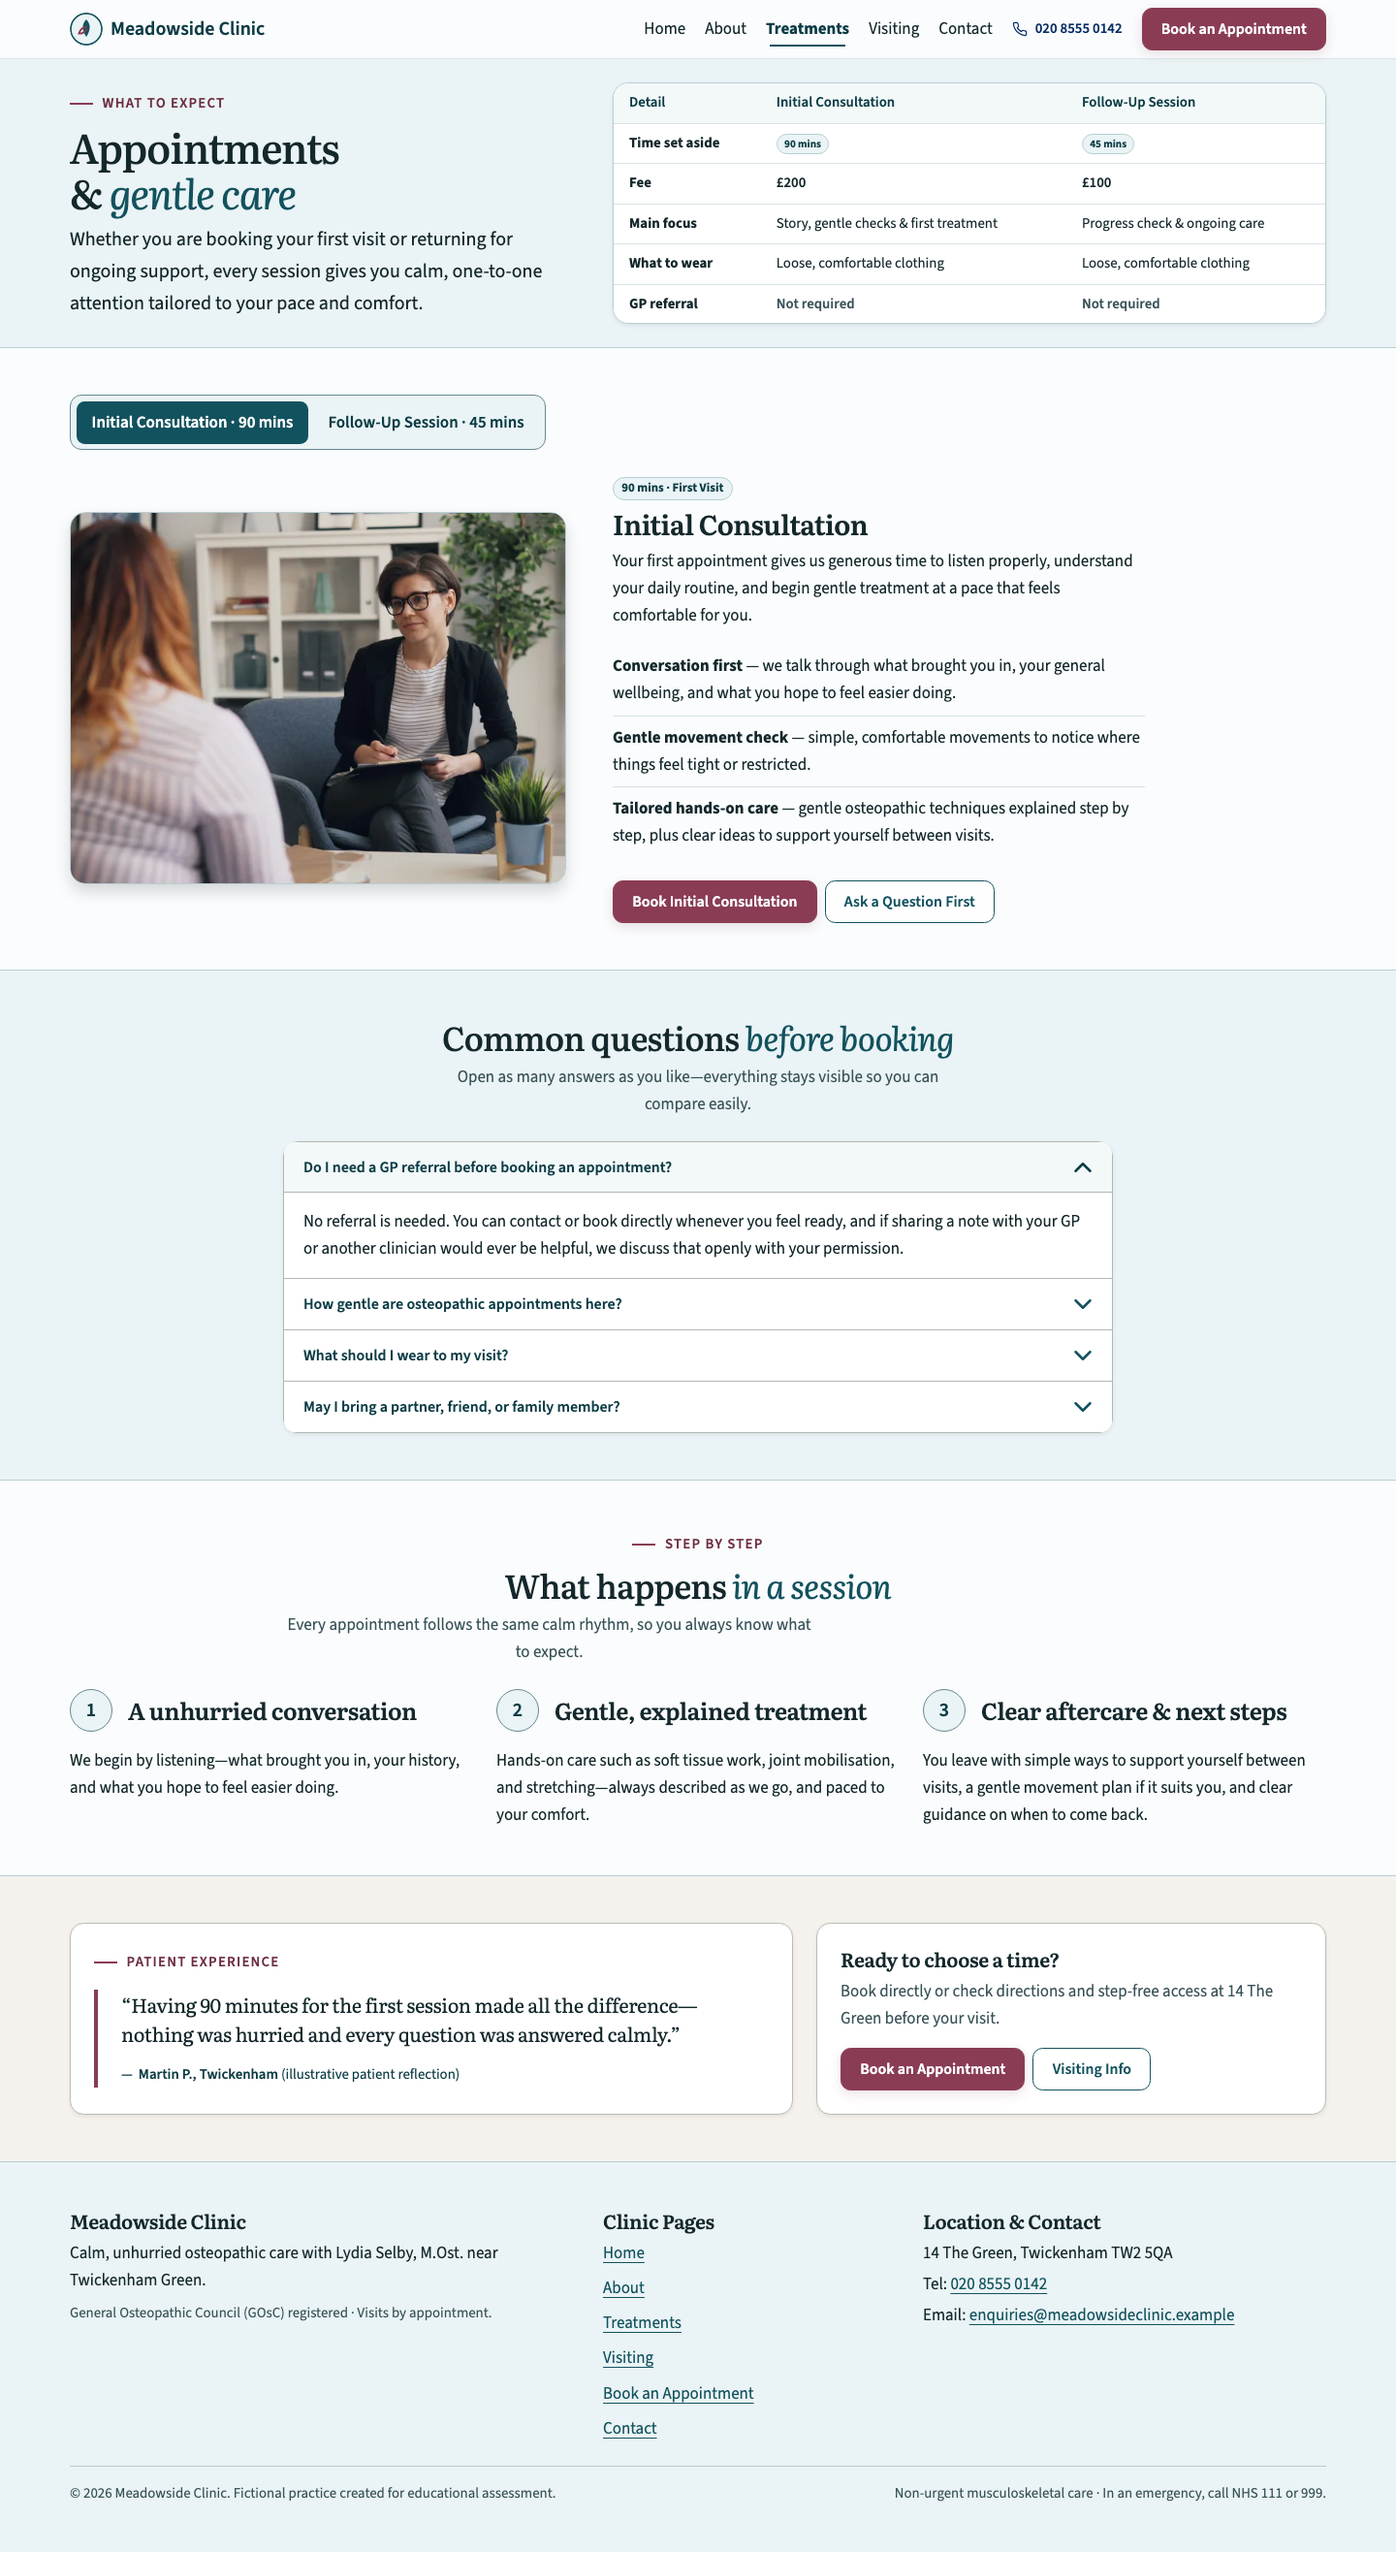
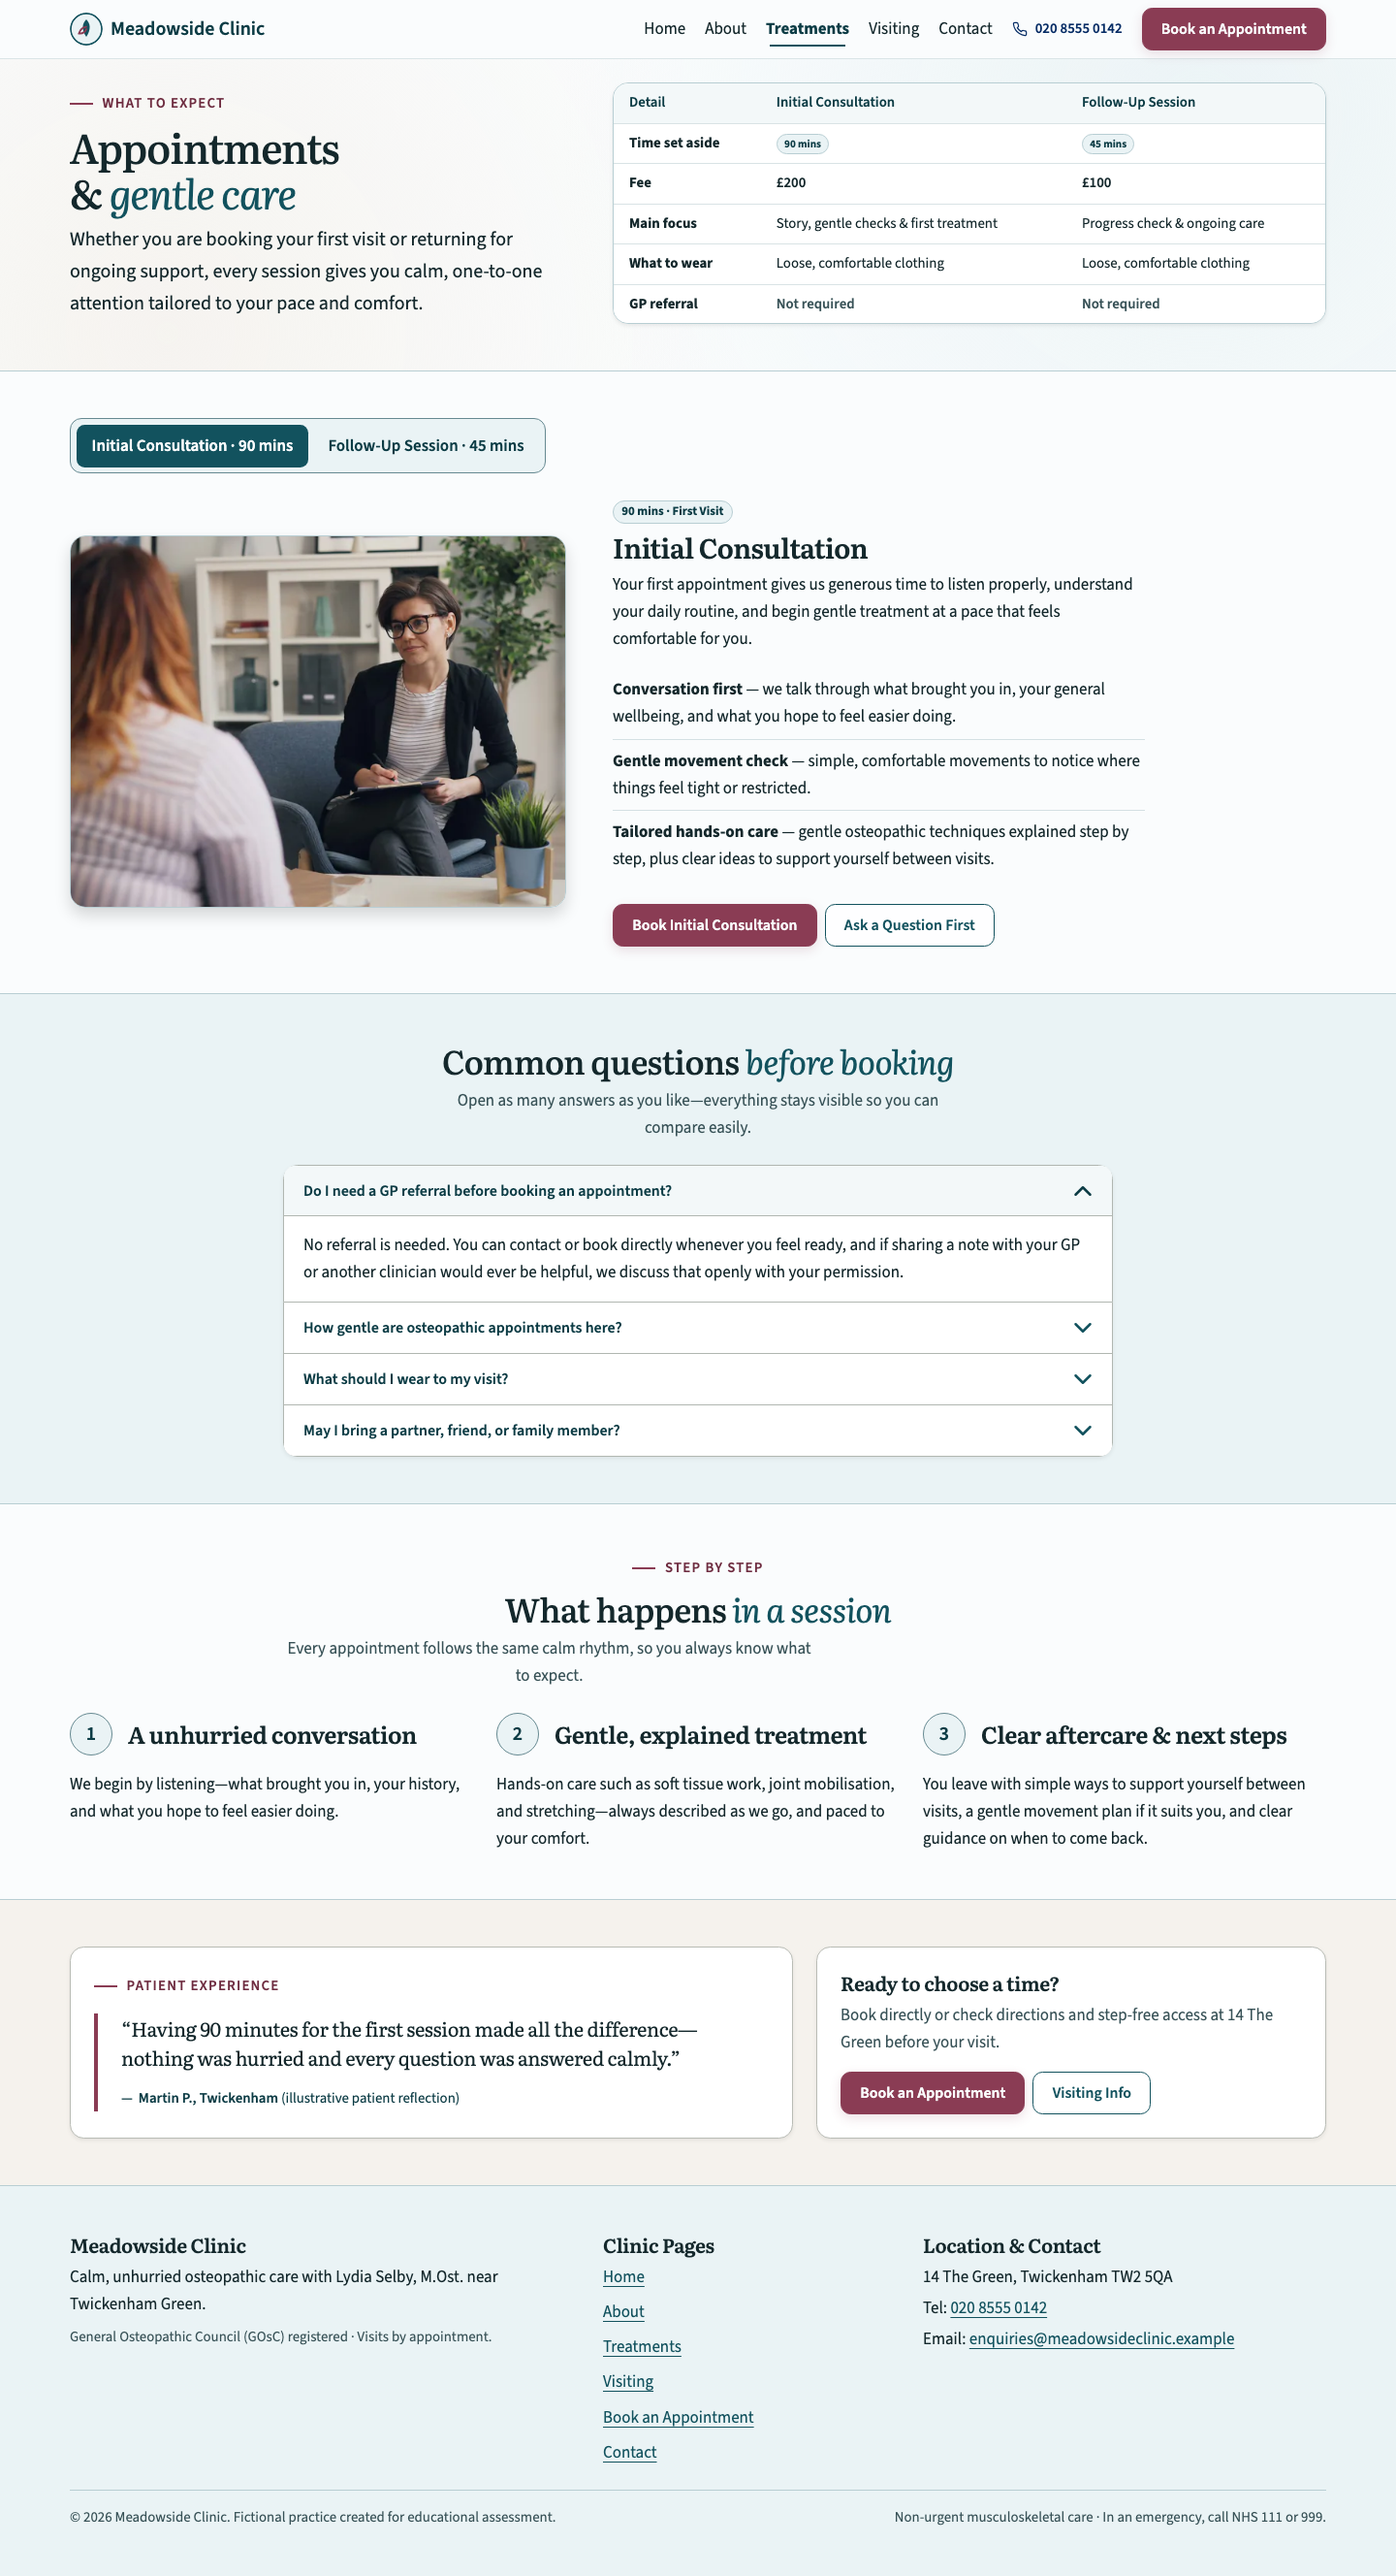
Detail audit: unify treatments opener, trim dead CSS, correct sizes stops

diff --git a/index.html b/index.html
@@ -152,7 +152,7 @@
             <div class="ratio ratio-4x3">
               <img src="assets/images/hero-treatment-room-1200.webp"
                 srcset="assets/images/hero-treatment-room-640.webp 640w, assets/images/hero-treatment-room-800.webp 800w, assets/images/hero-treatment-room-1200.webp 1200w"
-                sizes="(max-width: 575.98px) calc(100vw - 1.5rem), (max-width: 991.98px) 696px, 526px"
+                sizes="(max-width: 575.98px) calc(100vw - 1.5rem), (max-width: 991.98px) 696px, 441px"
                 alt="Private clinic treatment room with a pale padded plinth, stool, orchid on a small desk, and white painted brick wall"
                 class="img-fluid object-fit-cover rounded-4 shadow border" width="1200" height="900"
                 fetchpriority="high">
@@ -170,7 +170,7 @@
             <div class="ratio ratio-4x3">
               <img src="assets/images/lydia-portrait-1200.webp"
                 srcset="assets/images/lydia-portrait-640.webp 640w, assets/images/lydia-portrait-800.webp 800w, assets/images/lydia-portrait-1200.webp 1200w"
-                sizes="(max-width: 575.98px) calc(100vw - 1.5rem), (max-width: 991.98px) 696px, 526px"
+                sizes="(max-width: 575.98px) calc(100vw - 1.5rem), (max-width: 991.98px) 696px, 441px"
                 alt="Osteopath Lydia Selby smiling warmly in a relaxed navy cable-knit jumper against a soft daylight studio backdrop"
                 class="img-fluid object-fit-cover rounded-4 shadow border" width="1200" height="900" loading="lazy">
             </div>
@@ -229,7 +229,7 @@
                       srcset="assets/images/consultation-conversation-480.webp 480w, assets/images/consultation-conversation-960.webp 960w"
                       sizes="(max-width: 767.98px) calc(100vw - 1.5rem), 220px"
                       alt="Practitioner and client seated together in a sunlit white-brick consultation room having a calm initial conversation"
-                      class="object-fit-cover clinic-card-photo-top" width="960" height="720" loading="lazy">
+                      class="object-fit-cover" width="960" height="720" loading="lazy">
                   </div>
                 </div>
                 <div class="col-md-8">

diff --git a/treatments.html b/treatments.html
@@ -90,8 +90,8 @@
   </header>
 
   <main id="main-content" class="flex-grow-1">
-    <!-- 1. Mist Opener with Proposal A1: Responsive Session Comparison .table -->
-    <section class="pt-3 pb-4 py-lg-4 bg-primary-subtle">
+    <!-- 1. Primary Opener with Proposal A1: Responsive Session Comparison .table -->
+    <section class="pt-3 pb-4 pt-lg-4 pb-lg-5 section-hero">
       <div class="container">
         <div class="row align-items-center gy-4 gx-lg-5">
           <div class="col-lg-5">
@@ -183,7 +183,7 @@
                 <div class="ratio ratio-4x3">
                   <img src="assets/images/initial-assessment-1200.webp"
                     srcset="assets/images/initial-assessment-640.webp 640w, assets/images/initial-assessment-800.webp 800w, assets/images/initial-assessment-1200.webp 1200w"
-                    sizes="(max-width: 575.98px) calc(100vw - 1.5rem), (max-width: 991.98px) 696px, 526px"
+                    sizes="(max-width: 575.98px) calc(100vw - 1.5rem), (max-width: 991.98px) 696px, 441px"
                     alt="Osteopath taking notes on a clipboard while listening attentively to a client in a calm plant-lit consultation room"
                     class="img-fluid object-fit-cover rounded-4 shadow border" width="1200" height="900"
                     fetchpriority="high">
@@ -226,7 +226,7 @@
                 <div class="ratio ratio-4x3">
                   <img src="assets/images/followup-thoracic-care-1200.webp"
                     srcset="assets/images/followup-thoracic-care-640.webp 640w, assets/images/followup-thoracic-care-800.webp 800w, assets/images/followup-thoracic-care-1200.webp 1200w"
-                    sizes="(max-width: 575.98px) calc(100vw - 1.5rem), (max-width: 991.98px) 696px, 526px"
+                    sizes="(max-width: 575.98px) calc(100vw - 1.5rem), (max-width: 991.98px) 696px, 441px"
                     alt="Practitioner performing mid-back manual osteopathic work on a clothed adult patient lying on a white plinth"
                     class="img-fluid object-fit-cover rounded-4 shadow border" width="1200" height="900"
                     fetchpriority="low" loading="lazy">

diff --git a/assets/css/style.css b/assets/css/style.css
@@ -160,7 +160,7 @@ main p.text-center {
 
 .clinic-eyebrow,
 main .accordion .accordion-button {
-  font-family: "Source Sans 3", "Source Sans Fallback", system-ui, "Segoe UI", Roboto, "Helvetica Neue", Arial, sans-serif;
+  font-family: var(--bs-font-sans-serif);
   text-wrap: balance;
 }
 
@@ -199,14 +199,6 @@ header .navbar[data-bs-theme="light"] {
   --bs-navbar-brand-color: var(--clinic-primary-dark);
   --bs-navbar-brand-hover-color: var(--clinic-primary);
   --bs-navbar-toggler-border-color: var(--clinic-border-ui);
-}
-
-header .navbar[data-bs-theme="light"]::before {
-  content: "";
-  position: absolute;
-  inset: 0;
-  z-index: -1;
-  backdrop-filter: blur(10px);
 }
 
 header .navbar-toggler {
@@ -536,10 +528,6 @@ main form .form-control:user-invalid + .clinic-error-hint {
 
 main form .form-control:user-valid {
   border-color: var(--clinic-primary);
-}
-
-.clinic-card-photo-top {
-  object-position: center 22%;
 }
 
 /* ==========================================================================

diff --git a/visiting.html b/visiting.html
@@ -232,7 +232,7 @@
               <div class="ratio ratio-4x3">
                 <img src="assets/images/twickenham-shopfront-1200.webp"
                   srcset="assets/images/twickenham-shopfront-640.webp 640w, assets/images/twickenham-shopfront-800.webp 800w, assets/images/twickenham-shopfront-1200.webp 1200w"
-                  sizes="(max-width: 575.98px) calc(100vw - 1.5rem), (max-width: 991.98px) 696px, 526px"
+                  sizes="(max-width: 575.98px) calc(100vw - 1.5rem), (max-width: 991.98px) 696px, 441px"
                   alt="Ground-floor brick shopfront terrace in Twickenham showing an osteopathy and physiotherapy clinic beside a postbox"
                   class="img-fluid object-fit-cover rounded-4 shadow border" width="1200" height="900" loading="lazy">
               </div>

diff --git a/about.html b/about.html
@@ -110,7 +110,7 @@
             <div class="ratio ratio-16x9">
               <img src="assets/images/clinic-waiting-room-1440.webp"
                 srcset="assets/images/clinic-waiting-room-800.webp 800w, assets/images/clinic-waiting-room-1440.webp 1440w"
-                sizes="(max-width: 575.98px) calc(100vw - 1.5rem), (max-width: 991.98px) 696px, 636px"
+                sizes="(max-width: 575.98px) calc(100vw - 1.5rem), (max-width: 991.98px) 696px, 512px"
                 alt="Bright clinic waiting room with pale sofas, tan armchairs, indoor greenery, and tall windows looking onto trees"
                 class="img-fluid object-fit-cover rounded-4 shadow border" width="1440" height="810"
                 fetchpriority="high">
